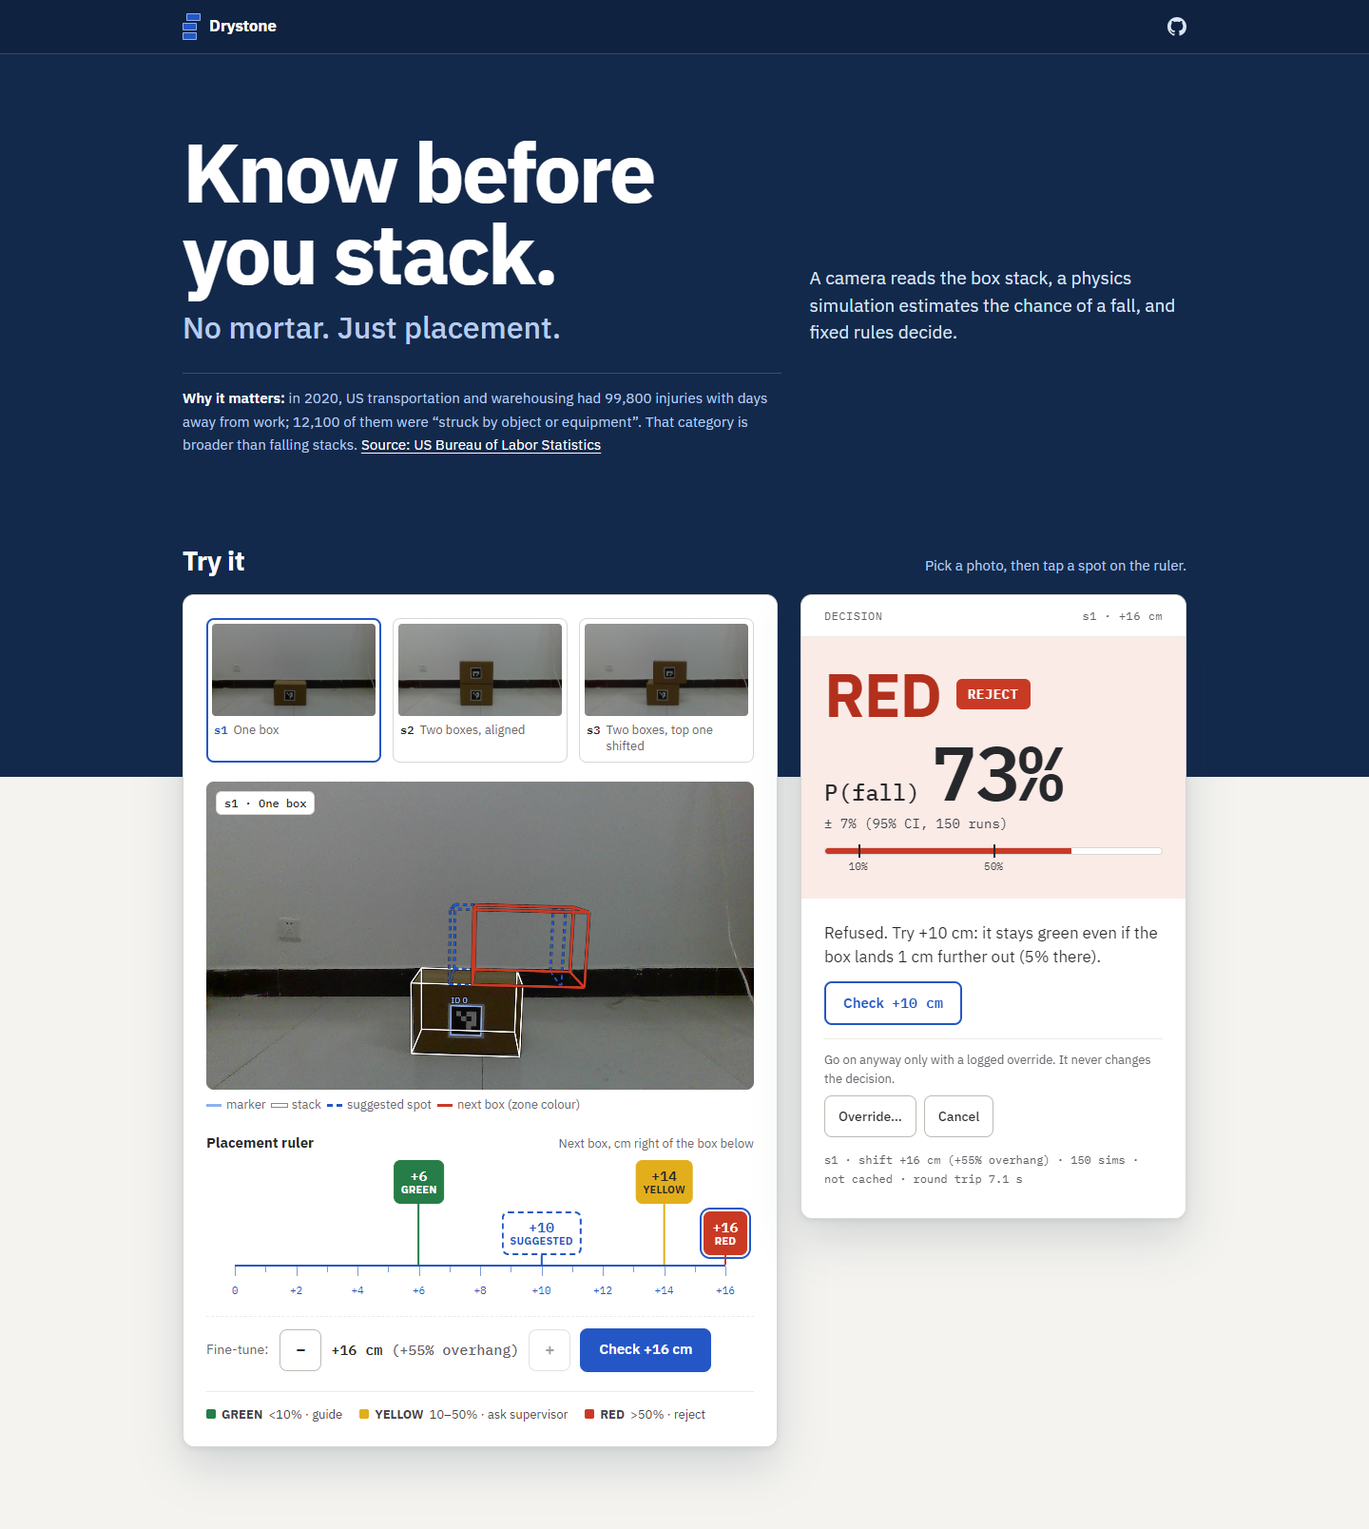
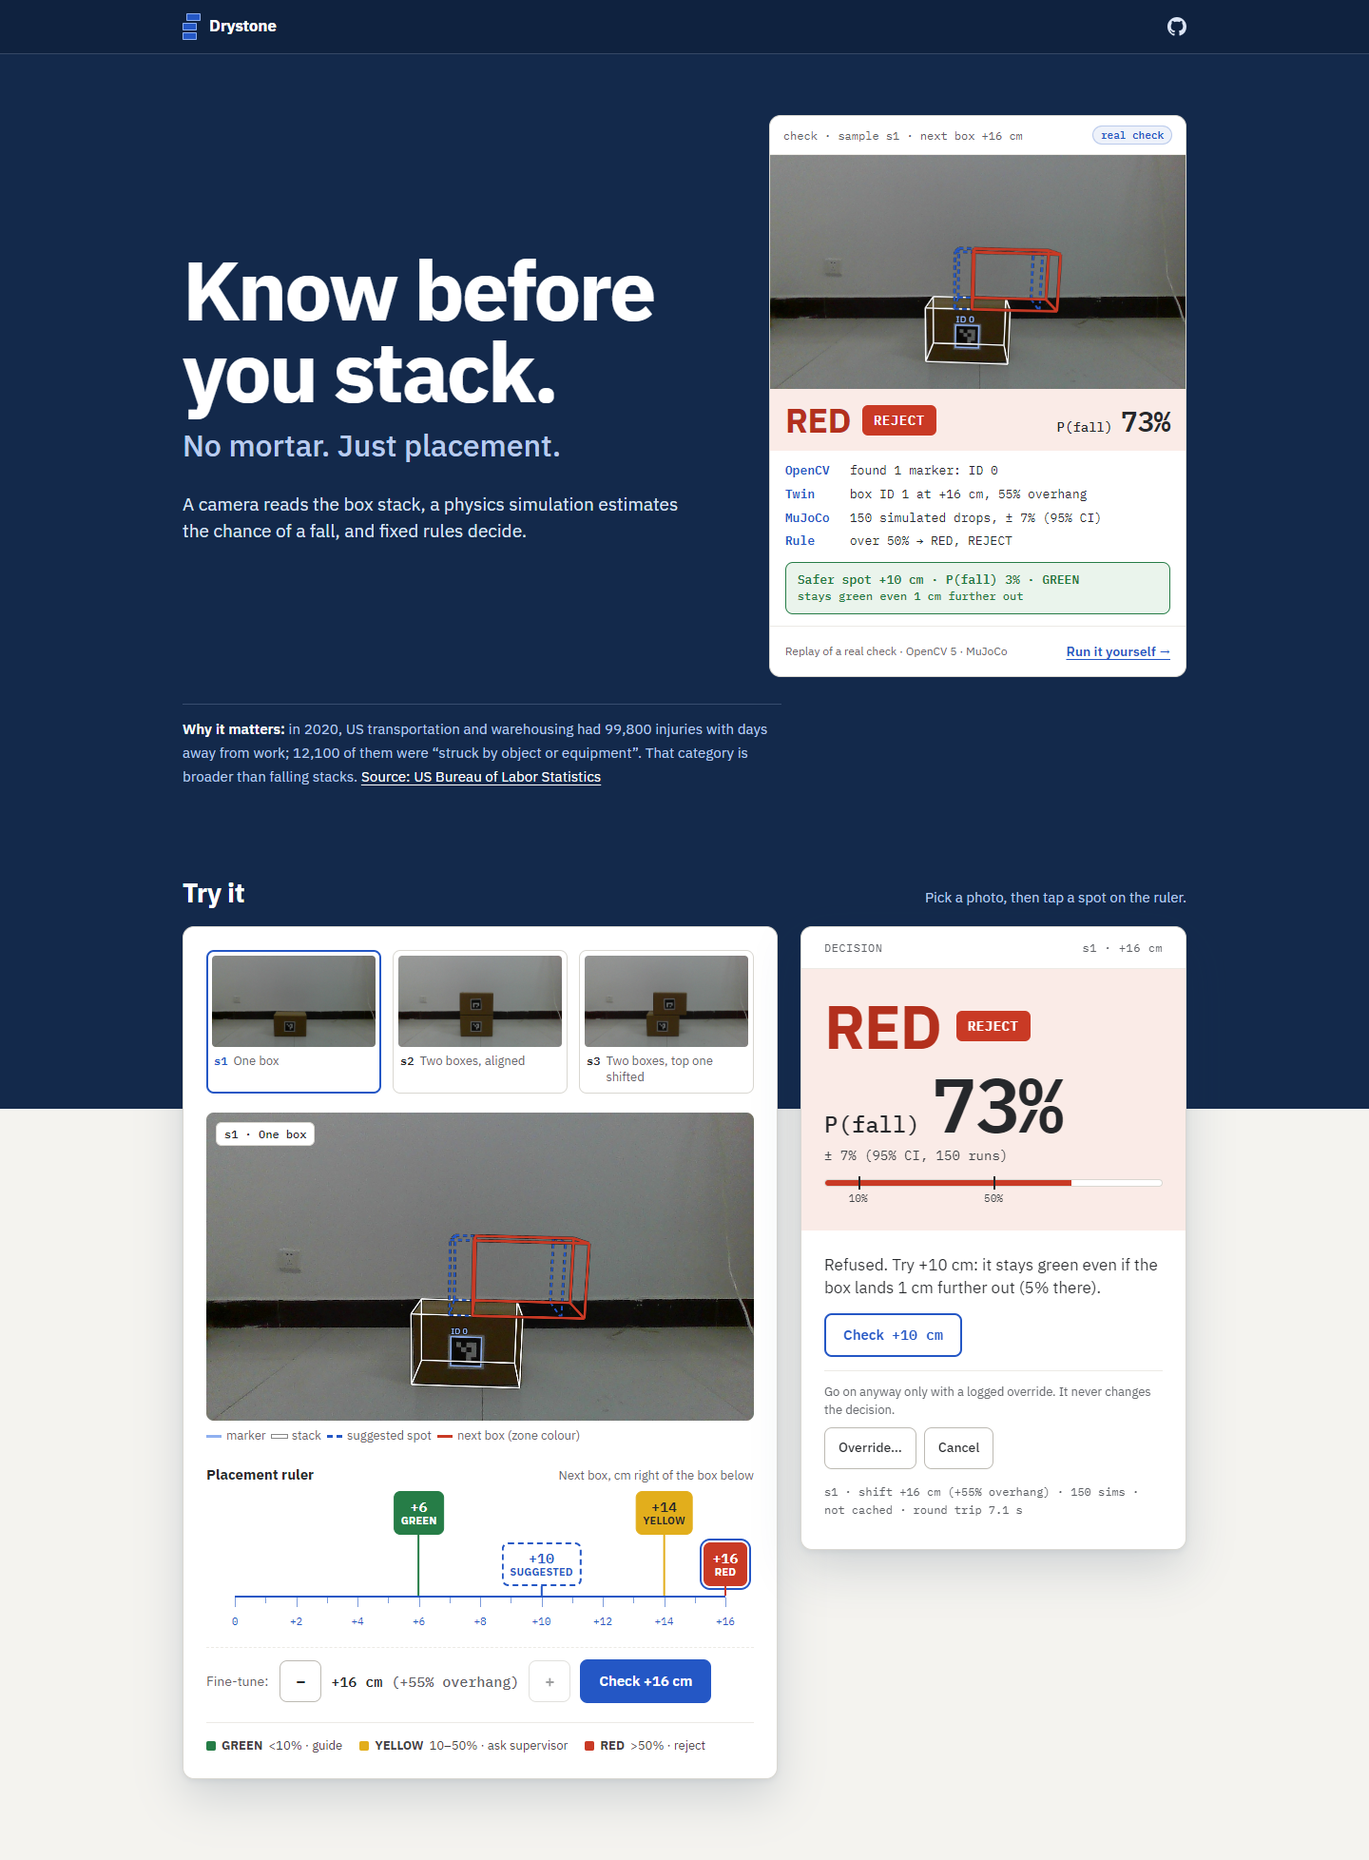
Judges' page: hero "real check" card replaying one recorded decision
- Right of the headline: sample s1, next box +16 cm -> RED 73% (± 7%,
  150 runs), safer spot +10 cm 3% GREEN, recorded from tools/service.py
  (seed 0, same answer as on Lambda). Overlay drawn from the record on
  samples/s1.jpg; ~3 s one-time replay, final frame with reduced motion.
- "Run it yourself" runs the same check live in the Try it section.
- New test: the hero record must match the service answer (52 tests).
- Screenshots, test counts in README/REPORT/DEVPOST and STATUS updated.

diff --git a/web/index.html b/web/index.html
@@ -52,11 +52,32 @@
   .toplink { display: inline-flex; align-items: center; justify-content: center; width: 44px; height: 44px; margin-right: -12px; border-radius: 8px; color: var(--hero-body); }
   .hero .toplink { color: var(--hero-body); }
   @media (hover: hover) { .hero .toplink:hover { color: #fff; background: rgba(255,255,255,0.08); } }
-  .hero-main { display: flex; flex-wrap: wrap; align-items: flex-end; justify-content: space-between; gap: clamp(14px, 3vw, 48px); padding: clamp(24px, 6vw, 80px) 0 clamp(18px, 2.5vw, 28px); }
-  .hero-main > div { flex: 1 1 560px; min-width: 0; }
+  .hero-main { display: flex; flex-wrap: wrap; align-items: center; justify-content: space-between; gap: clamp(28px, 4vw, 64px); padding: clamp(24px, 5vw, 64px) 0 clamp(18px, 2.5vw, 28px); }
+  .hero-copy { flex: 1 1 480px; min-width: 0; }
   h1 { margin: 0; font-size: clamp(42px, 6.4vw, 88px); line-height: 0.98; font-weight: 700; letter-spacing: -0.03em; text-wrap: balance; }
   .hero-sub { margin: clamp(8px, 1.2vw, 16px) 0 0; font-size: clamp(20px, 2.4vw, 32px); line-height: 1.2; color: var(--hero-sub); font-weight: 500; }
-  .hero-body { flex: 1 1 340px; max-width: 420px; margin: 0; font-size: clamp(16px, 1.4vw, 19px); line-height: 1.5; color: var(--hero-body); text-wrap: pretty; }
+  .hero-body { max-width: 46ch; margin: clamp(16px, 2vw, 28px) 0 0; font-size: clamp(16px, 1.4vw, 19px); line-height: 1.5; color: var(--hero-body); text-wrap: pretty; }
+  /* hero proof: a replay of one real check */
+  .proof { flex: 1 1 360px; max-width: 470px; margin: 0; background: var(--surface); color: var(--text); border: 1px solid var(--border); border-radius: 12px; box-shadow: var(--shadow); overflow: hidden; }
+  .proof-cmd { display: flex; justify-content: space-between; align-items: center; gap: 8px; padding: 10px 14px; font: 12px var(--mono); color: var(--muted); border-bottom: 1px solid var(--soft); }
+  .proof-tag { flex: none; font: 600 11px var(--mono); color: var(--brand); background: rgba(36,87,197,0.08); border: 1px solid rgba(36,87,197,0.25); padding: 2px 8px; border-radius: 999px; }
+  .proof canvas { display: block; width: 100%; height: auto; aspect-ratio: 16 / 9; background: var(--photo-bg); }
+  .proof-head { display: flex; align-items: center; flex-wrap: wrap; gap: 8px 12px; padding: 14px 16px 12px; min-height: 64px; background: var(--soft); transition: background-color 0.35s ease-out; }
+  .proof-head.RED { background: var(--red-tint); }
+  .proof-safe small { display: block; font-weight: 500; font-size: 12px; }
+  .proof-zone { font-size: 36px; font-weight: 700; line-height: 1; letter-spacing: -0.02em; color: var(--red-text); }
+  .proof-p { margin-left: auto; font: 500 14px var(--mono); }
+  .proof-p b { font-size: 30px; font-weight: 600; letter-spacing: -0.02em; font-variant-numeric: tabular-nums; }
+  .proof-lines { list-style: none; margin: 0; padding: 12px 16px 0; display: grid; gap: 6px; font: 13px/1.45 var(--mono); }
+  .proof-lines li { display: grid; grid-template-columns: 58px 1fr; gap: 10px; }
+  .proof-lines .k { color: var(--brand); font-weight: 600; }
+  .proof-safe { margin: 12px 16px 0; padding: 9px 12px; border: 1.5px solid var(--green); background: var(--green-tint); color: var(--green-text); border-radius: 8px; font: 600 13px/1.4 var(--mono); }
+  .proof-foot { display: flex; justify-content: space-between; align-items: center; flex-wrap: wrap; gap: 0 12px; padding: 4px 16px 4px; margin-top: 12px; border-top: 1px solid var(--soft); font-size: 12px; color: var(--muted); }
+  .hero .proof-foot a { display: inline-flex; align-items: center; min-height: 44px; font-size: 14px; font-weight: 600; color: var(--brand); }
+  /* the replay only hides steps once the script runs, so the card is complete without it */
+  .proof.anim [data-step] { opacity: 0; transform: translateY(4px); transition: opacity 0.35s ease-out, transform 0.35s ease-out; }
+  .proof.anim [data-step].on { opacity: 1; transform: none; }
+  @media (max-width: 860px) { .proof { max-width: none; } }
   .why { margin: 0 0 clamp(24px, 4vw, 48px); padding-top: 14px; border-top: 1px solid var(--band-border); max-width: 70ch; font-size: 15px; line-height: 1.65; letter-spacing: 0.005em; color: var(--hero-sub); }
   .why strong { color: #fff; font-weight: 600; }
   .why a { color: #fff; }
@@ -255,11 +276,19 @@
   </header>
   <div class="wrap">
     <section class="hero-main">
-      <div>
+      <div class="hero-copy">
         <h1>Know before you stack.</h1>
         <p class="hero-sub">No mortar. Just placement.</p>
+        <p class="hero-body">A camera reads the box stack, a physics simulation estimates the chance of a fall, and fixed rules decide.</p>
       </div>
-      <p class="hero-body">A camera reads the box stack, a physics simulation estimates the chance of a fall, and fixed rules decide.</p>
+      <figure class="proof" id="proof" aria-label="Replay of a real check: sample s1, next box at +16 cm">
+        <div class="proof-cmd"><span id="proof-cmd">check &middot; sample s1 &middot; next box +16 cm</span><span class="proof-tag">real check</span></div>
+        <canvas id="proof-view" width="640" height="360" aria-hidden="true"></canvas>
+        <div class="proof-head RED" id="proof-head"><span class="proof-zone" id="proof-zone" data-step>RED</span><span class="pill" id="proof-action" data-step>REJECT</span><span class="proof-p">P(fall) <b id="proof-p">73%</b></span></div>
+        <ol class="proof-lines" id="proof-lines"></ol>
+        <div class="proof-safe" id="proof-safe" data-step></div>
+        <figcaption class="proof-foot"><span>Replay of a real check &middot; OpenCV 5 &middot; MuJoCo</span><a href="#h-try" id="proof-run">Run it yourself &rarr;</a></figcaption>
+      </figure>
     </section>
     <p class="why"><strong>Why it matters:</strong> in 2020, US transportation and warehousing had 99,800 injuries with
       days away from work; 12,100 of them were &ldquo;struck by object or equipment&rdquo;. That category is broader than
@@ -430,28 +459,30 @@
       if (p.role === "candidate") box(p.corners, ZONE[r.decision.zone], lw * 1.8, []);
     });
   }
+  // G = the context being drawn on: the main photo, or the hero replay
+  var G = ctx;
   function poly(c, color, w) {
-    ctx.save(); ctx.strokeStyle = color; ctx.lineWidth = w; ctx.beginPath();
-    c.forEach(function (p, i) { if (i) ctx.lineTo(p[0], p[1]); else ctx.moveTo(p[0], p[1]); });
-    ctx.closePath(); ctx.stroke(); ctx.restore();
+    G.save(); G.strokeStyle = color; G.lineWidth = w; G.beginPath();
+    c.forEach(function (p, i) { if (i) G.lineTo(p[0], p[1]); else G.moveTo(p[0], p[1]); });
+    G.closePath(); G.stroke(); G.restore();
   }
   function box(c, color, w, dash) {
     // corner index = 4*x + 2*y + z bit; an edge joins corners that differ in one bit
-    ctx.save(); ctx.setLineDash(dash); ctx.lineJoin = "round";
+    G.save(); G.setLineDash(dash); G.lineJoin = "round";
     for (var pass = 0; pass < 2; pass++) {
-      ctx.strokeStyle = pass ? color : "rgba(0,0,0,.55)"; ctx.lineWidth = pass ? w : w + 2.5;
-      ctx.beginPath();
+      G.strokeStyle = pass ? color : "rgba(0,0,0,.55)"; G.lineWidth = pass ? w : w + 2.5;
+      G.beginPath();
       for (var a = 0; a < 8; a++) for (var b = a + 1; b < 8; b++) {
-        var x = a ^ b; if (x === 1 || x === 2 || x === 4) { ctx.moveTo(c[a][0], c[a][1]); ctx.lineTo(c[b][0], c[b][1]); }
+        var x = a ^ b; if (x === 1 || x === 2 || x === 4) { G.moveTo(c[a][0], c[a][1]); G.lineTo(c[b][0], c[b][1]); }
       }
-      ctx.stroke();
+      G.stroke();
     }
-    ctx.restore();
+    G.restore();
   }
-  function label(t, x, y, color) {
-    ctx.save(); ctx.font = "600 " + Math.round(canvas.width / 64) + "px 'IBM Plex Sans', system-ui, sans-serif";
-    ctx.lineWidth = 4; ctx.strokeStyle = "rgba(0,0,0,.6)"; ctx.strokeText(t, x, y);
-    ctx.fillStyle = color; ctx.fillText(t, x, y); ctx.restore();
+  function label(t, x, y, color, px) {
+    G.save(); G.font = "600 " + (px || Math.round(canvas.width / 64)) + "px 'IBM Plex Sans', system-ui, sans-serif";
+    G.lineWidth = 4; G.strokeStyle = "rgba(0,0,0,.6)"; G.strokeText(t, x, y);
+    G.fillStyle = color; G.fillText(t, x, y); G.restore();
   }
 
   /* ---------- ruler ---------- */
@@ -788,6 +819,87 @@
     choose(act);
   });
 
+  /* ---------- hero replay of one real check ---------- */
+  // Recorded from tools/service.py for sample s1 at +16 cm (fixed seed 0, the same code and answer as on AWS Lambda).
+  // tests/test_web.py checks that this record still matches the service.
+  var REC = {"sample":"s1","offset_cm":16,"box_id":1,"markers":[{"id":0,"corners":[[571.8,523.7],[643.4,525.9],[641.6,593.4],[571.1,591.2]]}],"polygons":[{"role":"stack","id":0,"corners":[[503.2,578.6],[479.6,635.5],[502.9,435.6],[478.3,470.7],[720.8,585.3],[732.2,643.7],[726.7,441.6],[739.7,478.1]]},{"role":"candidate","id":1,"corners":[[626.1,439.0],[622.0,475.0],[629.3,288.1],[625.8,298.9],[850.2,444.6],[883.8,481.4],[858.8,293.9],[895.0,305.8]]},{"role":"suggestion","id":1,"corners":[[579.7,437.8],[567.9,473.5],[581.9,287.0],[570.1,297.6],[804.0,443.5],[829.9,480.2],[811.6,292.6],[839.7,304.3]]}],"decision":{"zone":"RED","action":"REJECT","p":0.733,"ci":0.071,"n":150,"overhang_pct":55.17,"static_margin_cm":-1.5,"alternative":{"offset_cm":10.0,"overhang_pct":34.48,"p":0.027,"n":150,"further_offset_cm":11.0,"p_further":0.05}}};
+  function startProof() {
+    var s = state.meta.samples.filter(function (x) { return x.id === REC.sample; })[0];
+    if (!s) { el("proof").hidden = true; return; }
+    var d = REC.decision, a = d.alternative, pv = el("proof-view"), g = pv.getContext("2d"), img = new Image();
+    el("proof-cmd").textContent = "check \u00b7 sample " + REC.sample + " \u00b7 next box " + signed(REC.offset_cm) + " cm";
+    el("proof-zone").textContent = d.zone; el("proof-action").textContent = ACTION[d.action];
+    el("proof-p").textContent = pct(d.p);
+    var lines = [
+      ["OpenCV", "found " + REC.markers.length + " marker" + (REC.markers.length === 1 ? "" : "s") + ": ID " +
+        REC.markers.map(function (m) { return m.id; }).join(", ")],
+      ["Twin", "box ID " + REC.box_id + " at " + signed(REC.offset_cm) + " cm, " + Math.round(d.overhang_pct) + "% overhang"],
+      ["MuJoCo", d.n + " simulated drops, \u00b1 " + pct(d.ci) + " (95% CI)"],
+      ["Rule", "over 50% \u2192 " + d.zone + ", " + ACTION[d.action]]
+    ];
+    el("proof-lines").innerHTML = lines.map(function (l) {
+      return '<li data-step><span class="k">' + esc(l[0]) + "</span><span>" + esc(l[1]) + "</span></li>";
+    }).join("");
+    el("proof-safe").innerHTML = a ? esc("Safer spot " + signed(Math.round(a.offset_cm)) + " cm \u00b7 P(fall) " + pct(a.p) + " \u00b7 GREEN") +
+      "<small>stays green even 1 cm further out</small>" : "No safe spot in the search range";
+    function paint(stage) {
+      pv.width = 640; pv.height = 360;
+      g.setTransform(pv.width / img.naturalWidth, 0, 0, pv.height / img.naturalHeight, 0, 0);
+      g.drawImage(img, 0, 0);
+      G = g;
+      var lw = Math.max(2, img.naturalWidth / 400) * 1.4;
+      if (stage >= 1) REC.markers.forEach(function (m) { poly(m.corners, MARKER, lw); label("ID " + m.id, m.corners[0][0], m.corners[0][1] - 8, MARKER, 30); });
+      REC.polygons.forEach(function (p) {
+        if (p.role === "stack" && stage >= 2) box(p.corners, "#ffffff", lw, []);
+        if (p.role === "suggestion" && stage >= 4) box(p.corners, BRAND, lw * 1.4, [14, 10]);
+      });
+      REC.polygons.forEach(function (p) { if (p.role === "candidate" && stage >= 3) box(p.corners, ZONE[d.zone], lw * 1.8, []); });
+      G = ctx;
+    }
+    function on(sel) { Array.prototype.forEach.call(document.querySelectorAll(sel), function (n) { n.classList.add("on"); }); }
+    function play() {
+      var card = el("proof"), steps = card.querySelectorAll("#proof-lines [data-step]"), target = Math.round(d.p * 100);
+      card.classList.add("anim"); paint(0);
+      el("proof-head").classList.remove(d.zone); el("proof-p").textContent = "\u2014";
+      var t = [
+        [450, function () { paint(1); steps[0].classList.add("on"); }],
+        [1050, function () { paint(2); steps[1].classList.add("on"); }],
+        [1650, function () {
+          paint(3); steps[2].classList.add("on");
+          var t0 = performance.now();
+          (function count() {
+            var k = Math.min(1, (performance.now() - t0) / 800);
+            el("proof-p").textContent = Math.round(target * (1 - Math.pow(1 - k, 3))) + "%";
+            if (k < 1) requestAnimationFrame(count);
+          })();
+        }],
+        [2550, function () { el("proof-head").classList.add(d.zone); on("#proof-head [data-step]"); steps[3].classList.add("on"); }],
+        [3250, function () { paint(4); on("#proof-safe"); }]
+      ];
+      t.forEach(function (x) { setTimeout(x[1], x[0]); });
+    }
+    img.onload = function () {
+      var still = window.matchMedia && window.matchMedia("(prefers-reduced-motion: reduce)").matches;
+      if (still || !window.IntersectionObserver) { paint(4); return; }
+      paint(0);
+      el("proof").classList.add("anim");
+      el("proof-head").classList.remove(d.zone); el("proof-p").textContent = "—";
+      var io = new IntersectionObserver(function (es) {
+        if (es[0].isIntersecting) { io.disconnect(); play(); }
+      }, { threshold: 0.4 });
+      io.observe(el("proof"));
+    };
+    img.src = photoUrl(s);
+    // the same check, run live on AWS Lambda
+    el("proof-run").addEventListener("click", function (e) {
+      e.preventDefault();
+      if (state.busy) return;
+      if (state.sample !== s) selectSample(s);
+      el("h-try").scrollIntoView({ behavior: "smooth", block: "start" });
+      analyze(REC.offset_cm, true);
+    });
+  }
+
   fetch("samples/samples.json", { cache: "no-cache" }).then(function (r) { return r.json(); }).then(function (meta) {
     state.meta = meta;
     meta.samples.forEach(function (s) {
@@ -800,6 +912,7 @@
       el("samples").appendChild(b);
     });
     selectSample(meta.samples[0]);
+    startProof();
   }).catch(function () {
     el("result").innerHTML = '<div class="pad"><span class="err-title">Could not load the sample list.</span>' +
       '<span class="err-text">Reload the page.</span></div>';

diff --git a/tests/test_web.py b/tests/test_web.py
@@ -199,3 +199,17 @@ def test_direct_invoke_unchanged():
     assert out["statusCode"] == 200 and r["decision"]["zone"] == "GREEN"
     bad = service.lambda_handler({"mode": "decide", "images": ["bm90IGFuIGltYWdl"]})
     assert bad["statusCode"] == 400 and "cannot be decoded" in json.loads(bad["body"])["problem"]
+
+
+def test_hero_replay_matches_service():
+    """The hero card replays one recorded check; it must still be what the service answers."""
+    with open(os.path.join(ROOT, "web", "index.html"), encoding="utf-8") as f:
+        html = f.read()
+    start = html.index("var REC = ") + len("var REC = ")
+    rec = json.loads(html[start:html.index(";\n", start)])
+    status, r, _ = call("POST", "/", {"sample": rec["sample"], "offset_cm": rec["offset_cm"]})
+    assert status == 200 and r["ok"]
+    assert r["decision"] == rec["decision"]
+    assert r["box_id"] == rec["box_id"]
+    assert [m["id"] for m in r["markers"]] == [m["id"] for m in rec["markers"]]
+    assert [p["role"] for p in r["polygons"]] == [p["role"] for p in rec["polygons"]]

diff --git a/docs/STATUS.md b/docs/STATUS.md
@@ -223,6 +223,12 @@ Latihan final 18 Okt 13.36–13.41, `agent.py --aws`, Lambda `drystone-service:3
 - **Live sejak 18 Okt 02.30: `drystone-service:9523213`**, Function URL tetap sama. Berisi perbaikan cek ulang (kardus jatuh = FELL) dan `boxes.json` dengan tinggi terukur (dicek di dalam image).
 - Tes live (dari laptop): `GET /` 200 (3,4 dtk), `samples.json` versi foto a7aba3ca6c tanpa placeholder · **9 keputusan contoh identik dengan tabel** (s1 +6 GREEN 0% · +14 YELLOW 35% · +16 RED 73%; s2 +6 GREEN 0% · +13 YELLOW 27% · +16 RED 69%; s3 +4 GREEN 0% · +12 YELLOW 25% · +16 RED 77%; usulan sama) · POST foto lama (s2 +6 cm, box 2) → GREEN GUIDE (3,3 dtk) · `POST /log` → baris `web_supervisor_choice` di CloudWatch · **check lewat Lambda, foto sintetis ID 2 tegak di lantai samping tumpukan (berputar 25°) → FELL, action STOP**, "box ID 2 is on the floor next to the stack -> it fell", stack [0, 1], off_stack ID 2 (floor), tanpa retake (2,4 dtk) · pembanding penempatan sesuai rencana → OK, CONTINUE (+0,1 cm) · 0 baris error di CloudWatch.
 
+### Kartu hero "real check" (19 Okt sore)
+- Di kanan hero ada kartu yang memutar ulang **satu keputusan asli**: s1, kardus berikutnya +16 cm → RED 73% (± 7%, 150 simulasi), usulan +10 cm 3% GREEN. Data direkam dari `tools/service.py` (seed 0, kode dan jawaban sama dengan Lambda) dan disimpan di `web/index.html` (`REC`, ±0,8 KB); foto diambil dari `samples/s1.jpg`. Animasi ±3 dtk sekali jalan (marker → kerangka → kardus berikutnya + P(fall) naik → RED → usulan); *reduced motion* langsung hasil akhir. "Run it yourself →" menjalankan cek yang sama secara live. Label: "real check", "Replay of a real check".
+- Tes baru `test_hero_replay_matches_service`: rekaman harus sama dengan jawaban service (zona, P, CI, n, usulan, marker, poligon). **52 tes lulus** (README/REPORT/DEVPOST ikut diperbarui).
+- Foto "diperjelas" dari ChatGPT (gpt-image, C2PA `trainedAlgorithmicMedia`, 1672×941, marker s2/s3 bergeser 28–36 px) **tidak dipakai**: foto sampel tetap foto webcam asli. File AI dipindah ke luar repo (`Downloads\drystone_ai_photos`).
+- Screenshot `docs/img/web_desktop.png` dan `web_mobile.png` diperbarui. Deploy: lihat di bawah.
+
 ### Header tipis (19 Okt sore)
 - Header jadi bar tipis selebar layar (tinggi 56 px, seperti contoh Atlas): logo dan nama lebih kecil, tautan "GitHub repo" jadi ikon GitHub (target 44 px, `aria-label` "GitHub repository", tetap memakai `LINKS.repo`). Hanya tampilan; 51 tes lulus. `docs/img/web_desktop.png` dan `web_mobile.png` diperbarui.
 - **Deploy 19 Okt 16.01:** image `drystone-service:368b0d5` (+ `:latest`, digest `sha256:d784ed9e…fe48`), Lambda `Successful`/`Active`, Function URL tetap. **Rollback target: `drystone-service:e622387`** (perintah rollback seperti di bagian deploy 18 Okt, dengan tag `e622387`).

diff --git a/docs/DEVPOST.md b/docs/DEVPOST.md
@@ -60,7 +60,7 @@ Drystone is a decision-support prototype, **not a certified safety device**. We 
   photo API and the judges' page with its API, and supervisor choices go to CloudWatch Logs. Deploys are tagged with
   the git commit, and a lifecycle policy keeps the previous version for rollback. The service also has request
   limits, a cache and a zero-spend budget alarm.
-- Testing: 51 automated tests. Many use synthetic camera photos rendered through the real calibration, including
+- Testing: 52 automated tests. Many use synthetic camera photos rendered through the real calibration, including
   the whole agent loop with a fake camera, both on the laptop and through the Lambda handler.
 
 ## Challenges we ran into

diff --git a/docs/REPORT.md b/docs/REPORT.md
@@ -308,7 +308,7 @@ boxes; measure box-on-box and box-on-floor friction with a tilt test; model the 
 tilt when the box is let go); then lock new settings and test them on new trials again.
 
 ### 7.5 Software tests and live checks
-- **51 automated tests** (pytest). Synthetic camera photos are rendered through the real calibration, so the same
+- **52 automated tests** (pytest). Synthetic camera photos are rendered through the real calibration, so the same
   OpenCV code runs as on real photos:
   - the web endpoint: page, sample photos, the zone and suggestion of every example (with the 1 cm margin), cache,
     request limits (400, 413, 429), the photo API used by the agent;
